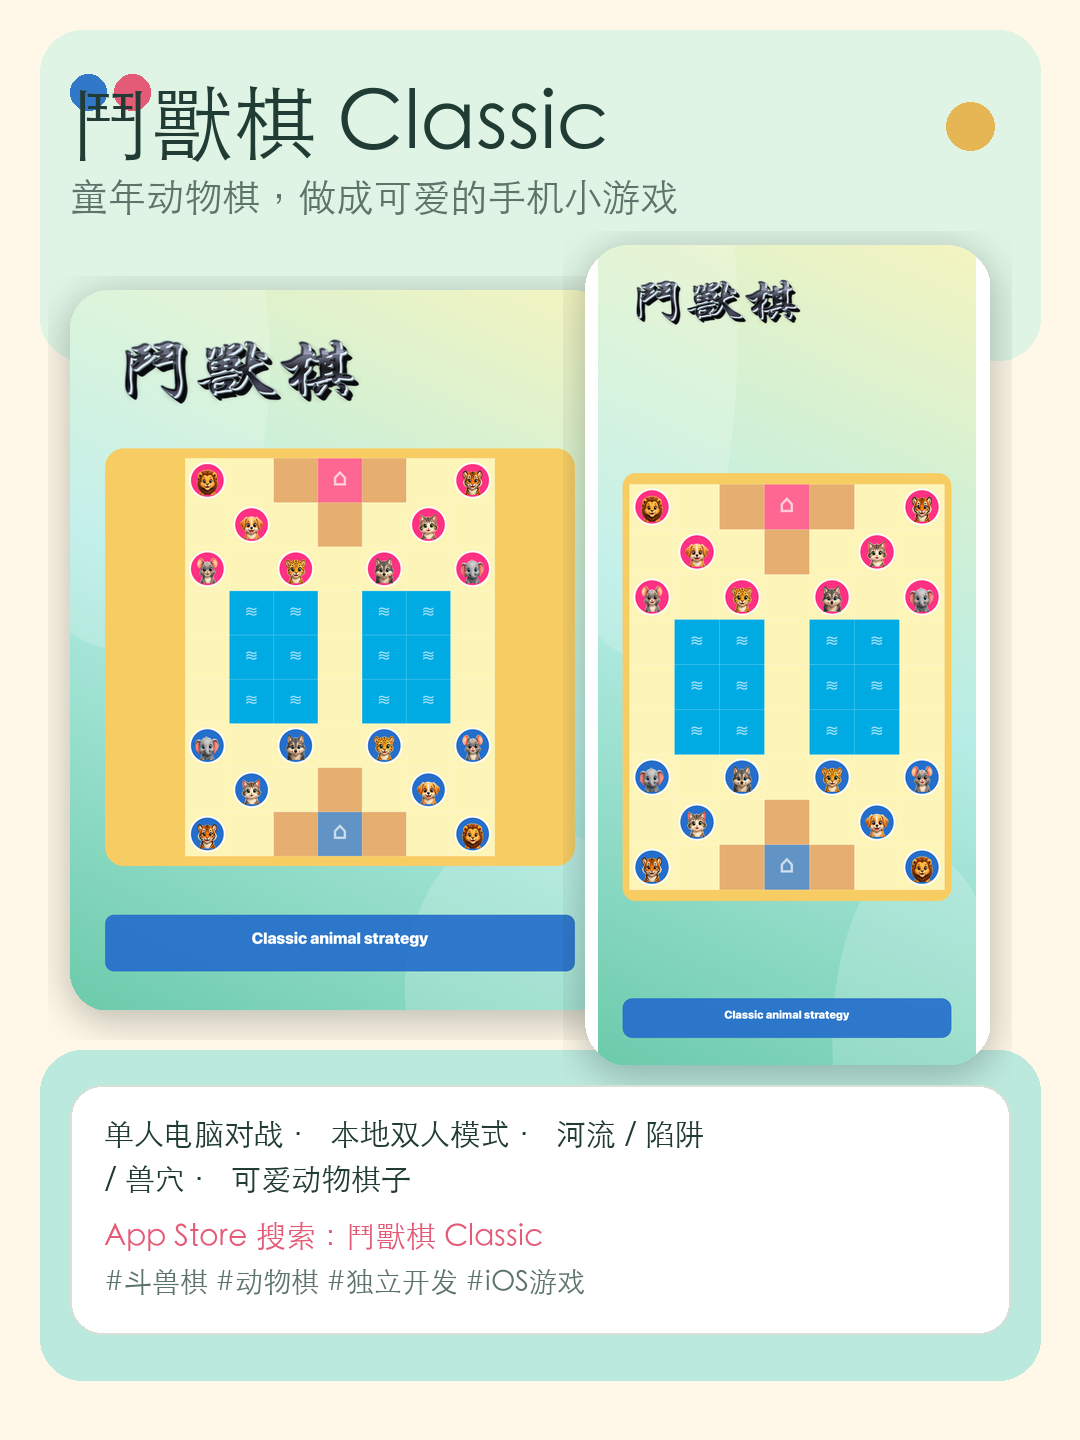
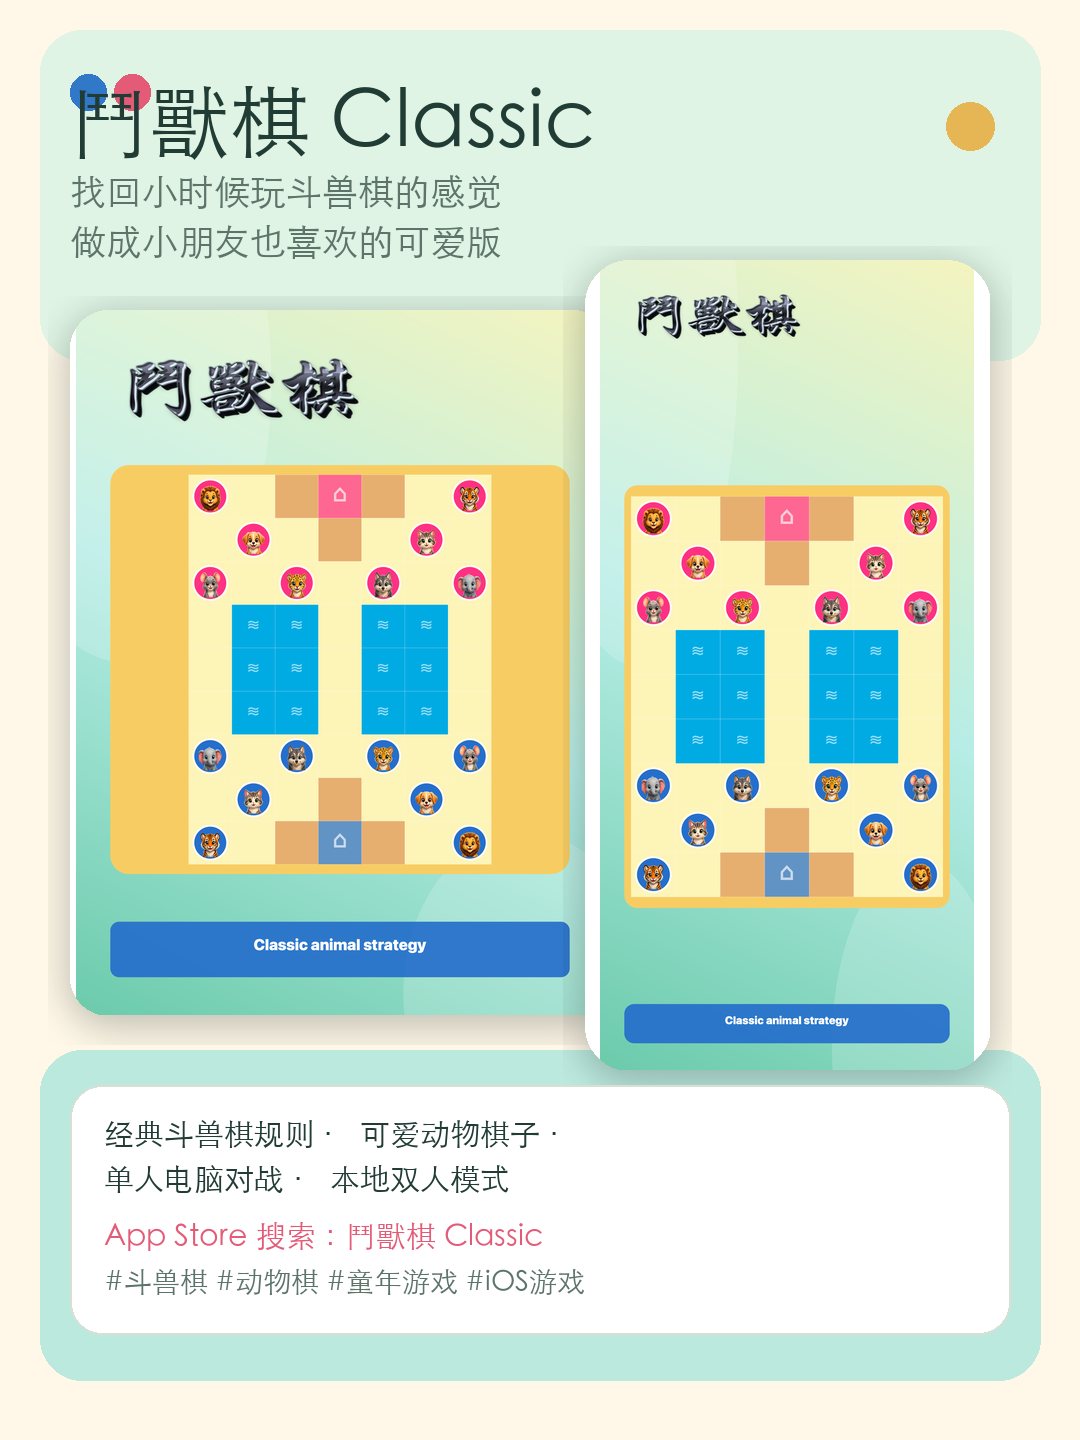
Refine Animal Chess founder story

diff --git a/mobile-post.html b/mobile-post.html
@@ -86,16 +86,16 @@
     </a>
 
     <h2>标题</h2>
-    <div class="box">小时候玩的斗兽棋，我做成了一个可爱的手机小游戏</div>
+    <div class="box">想找回小时候玩斗兽棋的感觉，所以做了一个可爱版</div>
 
     <h2>正文</h2>
-    <div class="box">小时候玩过斗兽棋的人，应该都会记得那种很简单但又很有策略的感觉：象、狮、虎、豹、狼、狗、猫、鼠，每个动物都有自己的大小关系，也有河流、陷阱和兽穴。
+    <div class="box">我小时候玩过斗兽棋，一直很想找回那种儿时的印象：规则不复杂，但是每一步都要想，动物之间有大小关系，也有河流、陷阱和兽穴。
 
-我一直觉得斗兽棋很适合做成一个轻松一点的手机小游戏。规则不复杂，但每一步都要想：是保护自己的兽穴，还是过河进攻？是用强动物压制，还是让小动物偷偷找机会？
+后来我在网上看到一些斗兽棋，很多设计都比较像传统棋类，感觉比较严肃。我就想，如果做一个更可爱一点、比较适合小朋友玩的斗兽棋，会不会更接近我小时候喜欢它的感觉？
 
 所以我做了 鬥獸棋 Classic。
 
-它保留了经典斗兽棋的玩法，有单人电脑对战，也可以本地双人一起玩。棋子用了比较可爱的动物头像，希望玩起来不是很严肃的棋类压力，而是有一点童年感、也有一点策略感。
+它保留了经典斗兽棋的玩法，有单人电脑对战，也可以本地双人一起玩。棋子用了比较可爱的动物头像，希望它不是那种很严肃的棋类 app，而是小朋友也会觉得亲近、可爱，同时又有一点策略感的小游戏。
 
 如果你也喜欢这种传统小游戏、动物棋、或者轻松一点的策略游戏，可以去 App Store 搜索：
 
@@ -103,7 +103,7 @@
 
 认准图标和游戏画面里的可爱动物棋子。开发者是 William Lock。
 
-也欢迎告诉我：你以前玩斗兽棋的时候，最喜欢用哪一个动物？</div>
+也欢迎告诉我：你小时候玩过斗兽棋吗？最喜欢用哪一个动物？</div>
 
     <h2>标签</h2>
     <div class="box">#斗兽棋 #鬥獸棋 #动物棋 #童年游戏 #益智游戏 #策略游戏 #独立开发 #iOS游戏 #休闲游戏</div>

diff --git a/rednote.html b/rednote.html
@@ -126,16 +126,16 @@
     </section>
 
     <h2>标题</h2>
-    <div class="card copy">小时候玩的斗兽棋，我做成了一个可爱的手机小游戏</div>
+    <div class="card copy">想找回小时候玩斗兽棋的感觉，所以做了一个可爱版</div>
 
     <h2>正文</h2>
-    <div class="card copy">小时候玩过斗兽棋的人，应该都会记得那种很简单但又很有策略的感觉：象、狮、虎、豹、狼、狗、猫、鼠，每个动物都有自己的大小关系，也有河流、陷阱和兽穴。
+    <div class="card copy">我小时候玩过斗兽棋，一直很想找回那种儿时的印象：规则不复杂，但是每一步都要想，动物之间有大小关系，也有河流、陷阱和兽穴。
 
-我一直觉得斗兽棋很适合做成一个轻松一点的手机小游戏。规则不复杂，但每一步都要想：是保护自己的兽穴，还是过河进攻？是用强动物压制，还是让小动物偷偷找机会？
+后来我在网上看到一些斗兽棋，很多设计都比较像传统棋类，感觉比较严肃。我就想，如果做一个更可爱一点、比较适合小朋友玩的斗兽棋，会不会更接近我小时候喜欢它的感觉？
 
 所以我做了 鬥獸棋 Classic。
 
-它保留了经典斗兽棋的玩法，有单人电脑对战，也可以本地双人一起玩。棋子用了比较可爱的动物头像，希望玩起来不是很严肃的棋类压力，而是有一点童年感、也有一点策略感。
+它保留了经典斗兽棋的玩法，有单人电脑对战，也可以本地双人一起玩。棋子用了比较可爱的动物头像，希望它不是那种很严肃的棋类 app，而是小朋友也会觉得亲近、可爱，同时又有一点策略感的小游戏。
 
 如果你也喜欢这种传统小游戏、动物棋、或者轻松一点的策略游戏，可以去 App Store 搜索：
 
@@ -143,7 +143,7 @@
 
 认准图标和游戏画面里的可爱动物棋子。开发者是 William Lock。
 
-也欢迎告诉我：你以前玩斗兽棋的时候，最喜欢用哪一个动物？</div>
+也欢迎告诉我：你小时候玩过斗兽棋吗？最喜欢用哪一个动物？</div>
 
     <h2>标签</h2>
     <div class="card copy">#斗兽棋 #鬥獸棋 #动物棋 #童年游戏 #益智游戏 #策略游戏 #独立开发 #iOS游戏 #休闲游戏</div>